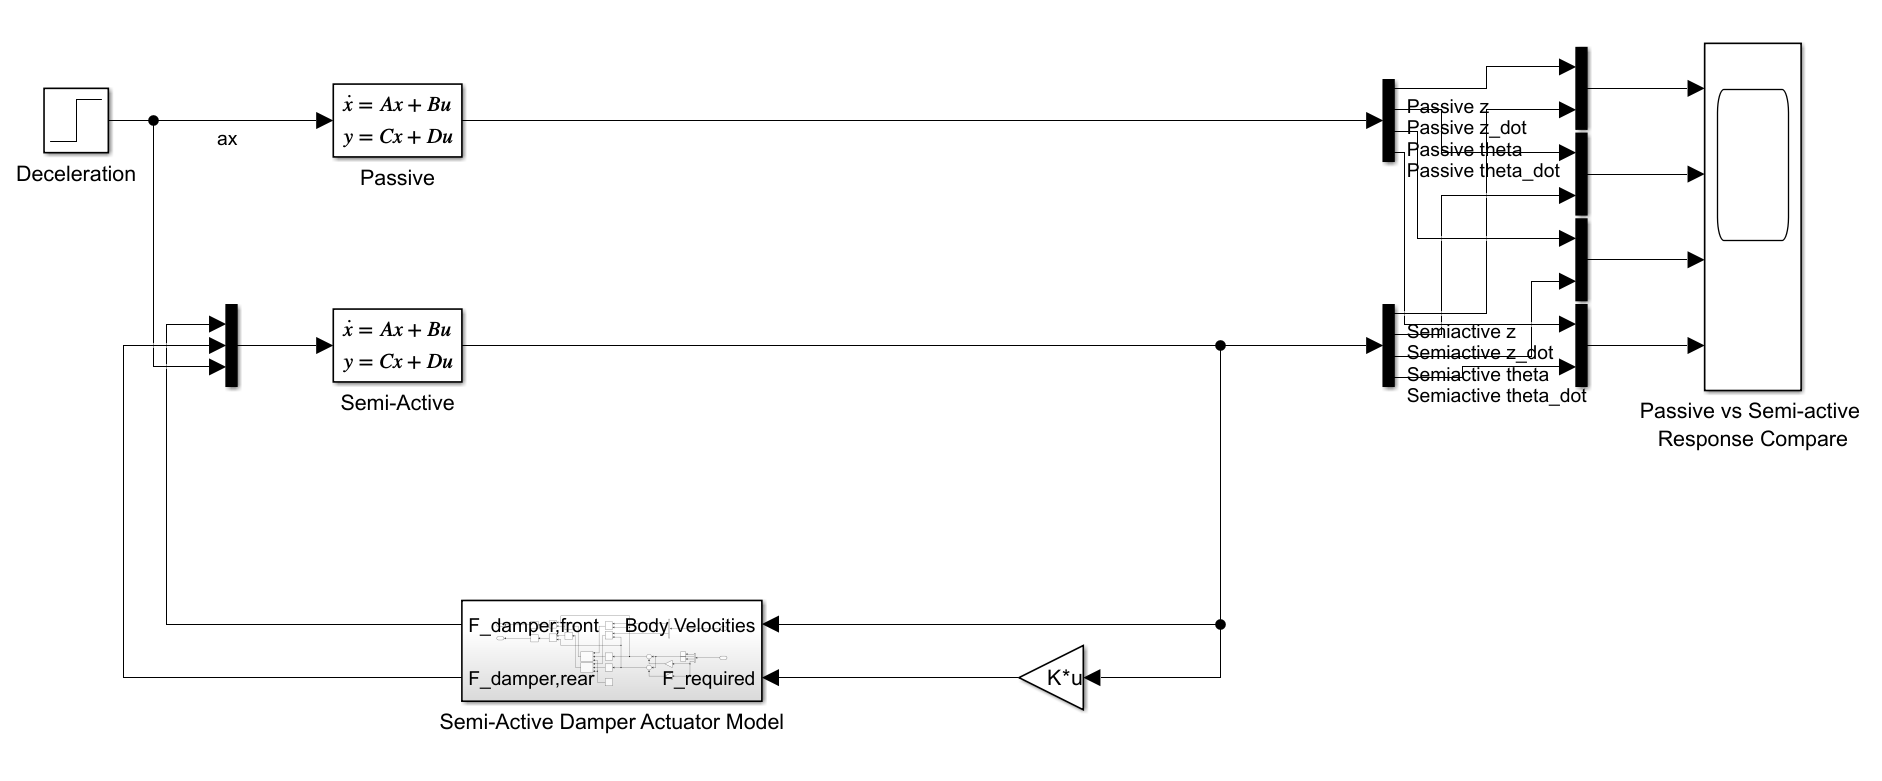
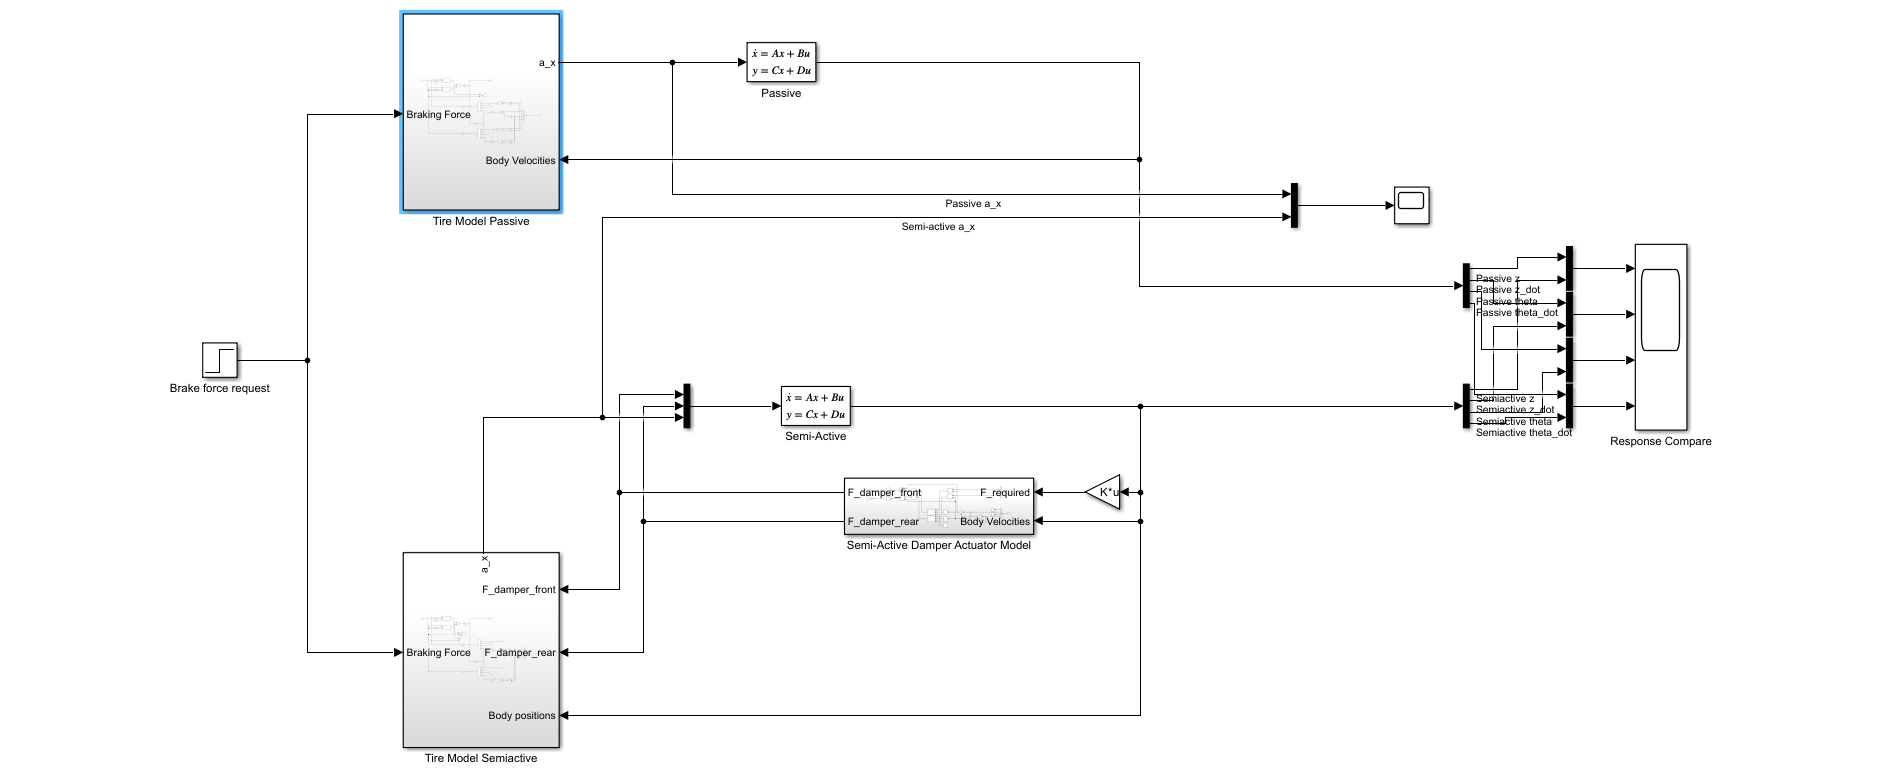
final

diff --git a/research_proposal.tex b/research_proposal.tex
@@ -7,6 +7,9 @@
 \usepackage{booktabs}
 \usepackage{hyperref}
 \usepackage{microtype}
+\usepackage{float}
+\usepackage[section]{placeins}
+
 
 \geometry{left=25mm,right=25mm,top=25mm,bottom=25mm}
 
@@ -19,7 +22,7 @@
 }
 
 \title{\textbf{Optimal Integrated Control of Suspension Damping and Braking for Minimum Braking Distance}}
-\author{Ivan Valiant \\ 
+\author{Ivan Valiant Susanto \\ 
 \small Master's Programme in Vehicle Engineering \\ 
 \small KTH Royal Institute of Technology, Stockholm, Sweden}
 \date{\today}
@@ -81,61 +84,61 @@ While this study isolates the co-optimization of suspension damping and global b
     \item \textbf{Exclusion of ABS Optimization:} High-frequency wheel slip control (ABS operating at $15\text{--}50+\text{ Hz}$) is deliberately decoupled from low-frequency suspension pitch dynamics ($1\text{--}3\text{ Hz}$) to maintain a focused thesis scope.
     \item \textbf{Future Extension:} Future iterations of this framework could integrate a slip-based braking controller layer to simultaneously optimize normal load transfer and tire slip ratio, achieving a fully integrated chassis control architecture.
 \end{itemize}
-\section{Preliminary Simulation Results and Actuator Validation}
-To validate the 2-DOF half-car state-space framework under realistic hardware limitations, an initial simulation was conducted comparing a passive baseline damper to the proposed semi-active LQR controller. The overall Simulink simulation architecture and the specialized damper realization subsystem are illustrated in Figures~\ref{fig:main_sim} and \ref{fig:damper_model}.
 
-\begin{figure}[htbp]
-    \centering
-    \includegraphics[width=0.85\textwidth]{main_sim.png}
-    \caption{Overview of the 2-DOF half-car Simulink simulation framework integrating state-space plant dynamics and control logic.}
-    \label{fig:main_sim}
-\end{figure}
+\section{Preliminary Simulation Results and Tire-Braking Co-Simulation}
+To validate the 2-DOF half-car state-space framework under realistic hardware limitations, an initial simulation was conducted comparing a passive baseline damper to the proposed semi-active LQR controller. An overview of the closed-loop Simulink architecture is detailed in Appendix~A (Figure~\ref{fig:main_sim}).
 
-\begin{figure}[htbp]
-    \centering
-    \includegraphics[width=0.85\textwidth]{damper_model.png}
-    \caption{Clipped Optimal Damping Realization subsystem incorporating damping saturation ($c_{\min}, c_{\max}$), passivity constraints ($F_d \cdot \dot{x}_{\text{rel}} \le 0$), and valve slew-rate bandwidth limits.}
-    \label{fig:damper_model}
-\end{figure}
-
-The semi-active implementation integrates three core Öhlins solenoid valve constraints:
+The semi-active implementation integrates three core Öhlins solenoid valve constraints (further illustrated in Appendix~A, Figure~\ref{fig:damper_model}):
 \begin{enumerate}
     \item \textbf{Damping Coefficient Saturation:} Bounded between $c_{\min} = 500\text{ N}\cdot\text{s/m}$ and $c_{\max} = 4000\text{ N}\cdot\text{s/m}$.
     \item \textbf{Passivity Constraint:} Enforced via velocity-guard logic ensuring the damper remains purely dissipative ($F_d \cdot \dot{x}_{\text{rel}} \le 0$), preventing any external energy injection.
     \item \textbf{Valve Bandwidth Limits:} Modeled using a slew-rate limiter to simulate solenoid response lag during transient events.
 \end{enumerate}
 
-As detailed in Table~\ref{tab:prelim_results} and visualized in the transient response scope output of Figure~\ref{fig:result1}, the semi-active controller successfully suppresses transient body motion during a braking maneuver. Crucially, the real-time modulation of damping forces actively cuts down the oscillation peaks during the initial transient phase and promotes a visibly faster settling time compared to the under-damped passive baseline. 
+To evaluate the cross-coupling between suspension pitch dynamics and longitudinal braking, a \textbf{Tier 2 Non-Linear Friction Saturation model} ($F_{x,\max} = \mu F_z$) was incorporated via custom Simulink subsystems (depicted in Appendix~A, Figures~\ref{fig:tire_passive} and \ref{fig:tire_semi}). 
 
-Furthermore, both models converge to the exact same static equilibrium height, confirming that the transient performance gains are achieved entirely through optimal, dissipative energy management rather than altered static ride height or body jacking.
+Under low-friction conditions ($\mu = 0.4$), the limitations of transient load transfer become critical. As detailed in Table~\ref{tab:prelim_results} and visualized in Figure~\ref{fig:result1}, the semi-active LQR controller successfully suppresses transient body motion during a braking maneuver. By aggressively cutting down oscillation peaks during the initial transient phase, the controller stabilizes the vertical normal loads ($F_z$), preventing premature tire force clipping at the saturation boundary. 
 
-\begin{figure}[htbp]
+Consequently, as shown in Figure~\ref{fig:acc_result}, the semi-active configuration achieves higher sustained deceleration ($a_x$) compared to the under-damped passive baseline. While this higher braking force results in a marginally deeper steady-state nosedive due to increased load transfer ($\Delta F_z = \frac{m h a_x}{L}$), the transient overshoot and settling behavior are vastly superior.
+
+\begin{figure}[!htbp]
     \centering
     \includegraphics[width=0.85\textwidth]{result1.png}
-    \caption{Simulation scope comparison (Passive vs. Semi-Active LQR) highlighting the reduction in transient pitch and heave oscillations and accelerated settling behavior.}
+    \caption{Simulation scope comparison (Passive vs. Semi-Active LQR under $\mu = 0.4$) highlighting the reduction in transient pitch and heave oscillations.}
     \label{fig:result1}
 \end{figure}
 
-\begin{table}[h]
+\begin{figure}[!htbp]
+    \centering
+    \includegraphics[width=0.85\textwidth]{acc_result.png}
+    \caption{Longitudinal deceleration ($a_x$) comparison showing the semi-active controller sustaining higher braking performance by avoiding tire saturation.}
+    \label{fig:acc_result}
+\end{figure}
+
+\begin{table}[!h]
 \centering
-\caption{Quantitative Comparison of Transient Braking Performance (Passive vs. Semi-Active LQR)}
+\caption{Quantitative Comparison of Transient Braking Performance ($\mu = 0.4$, Passive vs. Semi-Active LQR)}
 \label{tab:prelim_results}
 \begin{tabular}{lccc}
 \toprule
 \textbf{Kinematic Metric} & \textbf{Passive Baseline} & \textbf{Semi-Active LQR} & \textbf{Peak Reduction (\%)} \\
 \midrule
-Heave ($z$) [m] & 0.01577 & 0.00991 & 37.11\% \\
-Heave Velocity ($\dot{z}$) [m/s] & 0.04777 & 0.02014 & 57.85\% \\
-Pitch Angle ($\theta$) [rad] & 0.05986 & 0.04684 & 21.75\% \\
-Pitch Velocity ($\dot{\theta}$) [rad/s] & 0.21387 & 0.14545 & 31.99\% \\
+Heave ($z$) [m] & 0.00859 & 0.00569 & 33.77\% \\
+Heave Velocity ($\dot{z}$) [m/s] & 0.02645 & 0.01152 & 56.44\% \\
+Pitch Angle ($\theta$) [rad] & 0.03263 & 0.02685 & 17.72\% \\
+Pitch Velocity ($\dot{\theta}$) [rad/s] & 0.11981 & 0.08293 & 30.78\% \\
 \bottomrule
 \end{tabular}
 \end{table}
 
+
 \section{Proposed Timeline and Milestones}
-\begin{table}[h]
+The research and development schedule is structured across five progressive phases, moving from analytical modeling to physical co-simulation:
+
+\begin{table}[H]
 \centering
 \caption{Project Milestones and Estimated Timeline}
+\label{tab:timeline}
 \begin{tabular}{lll}
 \toprule
 \textbf{Phase} & \textbf{Task Description} & \textbf{Timeframe} \\
@@ -150,6 +153,7 @@ Phase 5 & Final analysis, report writing, and presentation preparation & Weeks 1
 \end{table}
 
 \section{Expected Deliverables}
+Upon completion of this research project, the primary deliverables will include:
 \begin{enumerate}
     \item A modular, well-documented MATLAB/Simulink and CarSim co-simulation framework.
     \item A comprehensive thesis report analyzing trade-offs between braking distance minimization, ride quality, and actuator constraints across progressive tire models.
@@ -159,7 +163,43 @@ Phase 5 & Final analysis, report writing, and presentation preparation & Weeks 1
 \section*{Transparency and AI Tool Disclosure}
 In accordance with modern academic and professional research standards, generative AI tools (such as large language models) were consulted during the preparation of this proposal for structural outlining, editorial refinement, and syntax assistance in script development. All technical modeling choices, mathematical formulations, control strategy selections, and engineering judgments remain the sole responsibility of the author.
 
-\bibliographystyle{plain}
-\bibliography{references}
+%\bibliographystyle{plain}
+%\bibliography{references}
 
+\clearpage
+\appendix
+\section*{Appendix: Simulink Model Implementation Schematics}
+\addcontentsline{toc}{section}{Appendix: Simulink Model Schematics}
+\setcounter{figure}{0}
+\renewcommand{\thefigure}{A.\arabic{figure}}
+
+This appendix provides the detailed block-level schematics of the Simulink simulation framework and custom subsystems developed for this study.
+
+\begin{figure}[htbp]
+    \centering
+    \includegraphics[width=0.9\textwidth]{main_sim.png}
+    \caption{Overview of the 2-DOF half-car Simulink simulation framework integrating state-space plant dynamics and closed-loop tire friction saturation logic.}
+    \label{fig:main_sim}
+\end{figure}
+
+\begin{figure}[htbp]
+    \centering
+    \includegraphics[width=0.9\textwidth]{damper_model.png}
+    \caption{Clipped Optimal Damping Realization subsystem incorporating damping saturation, passivity constraints, and valve slew-rate bandwidth limits.}
+    \label{fig:damper_model}
+\end{figure}
+
+\begin{figure}[htbp]
+    \centering
+    \includegraphics[width=0.9\textwidth]{tiremodelpassive.png}
+    \caption{Subsystem architecture for dynamic normal load and friction limit calculation in the passive baseline configuration.}
+    \label{fig:tire_passive}
+\end{figure}
+
+\begin{figure}[htbp]
+    \centering
+    \includegraphics[width=0.9\textwidth]{tiremodelsemi.png}
+    \caption{Subsystem architecture incorporating semi-active damper force feedback into dynamic normal load and friction limit calculations.}
+    \label{fig:tire_semi}
+\end{figure}
 \end{document}
